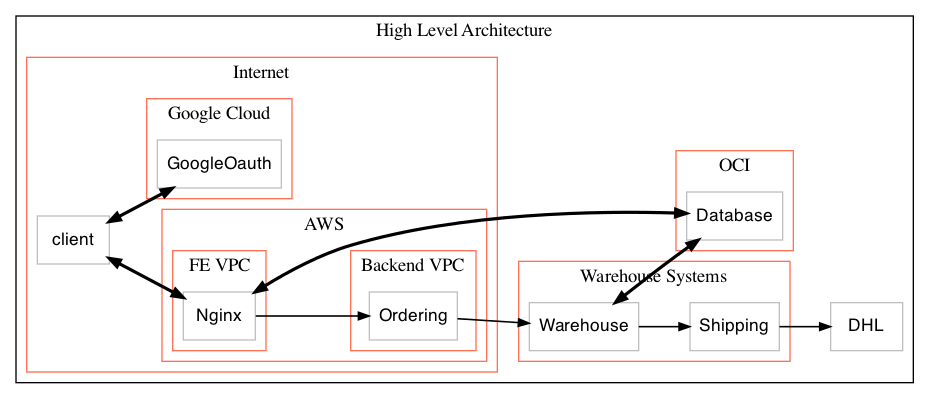
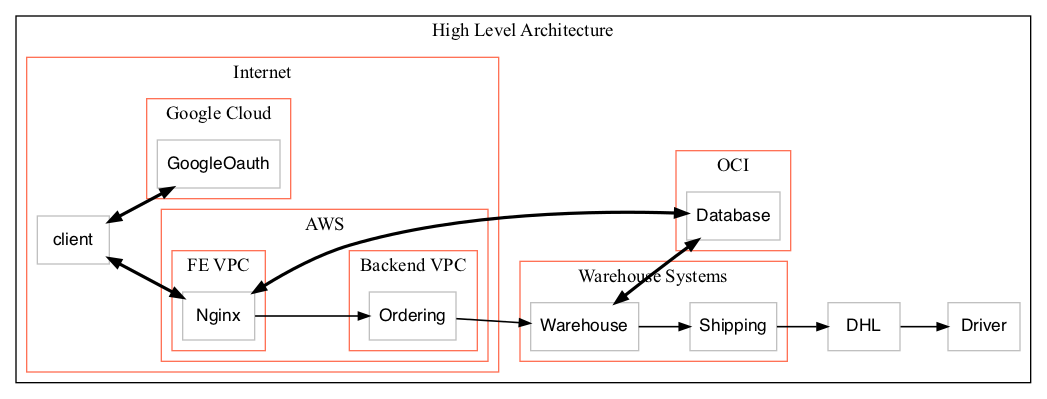
Added include function

diff --git a/src/ltm.py b/src/ltm.py
@@ -1,13 +1,15 @@
 grammar = """
     start: command+
 
-    command: describe   
+    command: describe
+           | include 
            | scene      
            | boundary
            | dataflow
-
            
     describe: "describe" SPACE WORD ":" SPACE ESCAPED_STRING
+
+    include: "include" SPACE WORD
 
     boundary: "boundary" SPACE ESCAPED_STRING ":" [ WORD+ | ESCAPED_STRING+ ]
 
@@ -28,7 +30,7 @@ grammar = """
     //
     LCASE_LETTER: "a".."z"
     UCASE_LETTER: "A".."Z"
-    DELIM_CHAR: ("/"|"-"|"_")
+    DELIM_CHAR: ("/"|"-"|"_"|".")
 
 
     LETTER: UCASE_LETTER | LCASE_LETTER | DELIM_CHAR | DIGIT
@@ -49,6 +51,8 @@ from deepdiff import DeepDiff
 
 from lark import Lark
 from lark.visitors import Visitor_Recursive
+
+import util
 
 parser = Lark(grammar)
 
@@ -76,6 +80,10 @@ class MyVisitor(Visitor_Recursive):
     def catcher(self, tree):
         """Visitor Function"""
         self._addActor(tree)
+
+    def include(self, tree):
+        """Visitor Function"""
+        pass
 
     def scene(self, tree):
         """Visitor Function"""
@@ -241,7 +249,17 @@ def test():
 
 
 def main():
-    parseTree = parser.parse(sys.stdin.read())
+    preparse = []
+    for s in sys.stdin.readlines():
+        if s.startswith("include"):
+            path = s.split(" ")[-1]
+            preparse.append(util.safeFileRead(path))
+        else:
+            preparse.append(s)
+    
+    preParsedString = "".join(preparse)
+
+    parseTree = parser.parse(preParsedString)
     MyVisitor().visit_topdown(parseTree)
     print(json.dumps(doc, indent=4, sort_keys=True), end="")
 

diff --git a/src/util.py b/src/util.py
@@ -6,6 +6,22 @@
 
 from typing import Union
 
+# Should we just rely on Posix DAC and not be too smart here?
+def safeFileRead(path: str, ext: str = ".ltm") ->str:
+    """Safely include other ltm files"""
+    # Files must end in .ltm
+    # Files must be local (no windering off into /etc/ ...)
+    #TODO: Think more about this, it'll do for now though.
+    path = path.strip()
+    if not path.endswith(ext):
+        print("Invalid include")
+        return ""
+
+    with open(path, 'r') as f:
+        return f.read()
+    
+
+
 def search(parent: dict, searchValue, path: list = None):
     """Search through nested dictionaries and lists looking for a value.
 

diff --git a/examples/report.md b/examples/report.md
@@ -5,6 +5,7 @@
 | --- | ---- |
 | DHL | External Shipping Company |
 | Database | Oracle Exadata database, holding most state of the overall application |
+| Driver | - |
 | GoogleOauth | Google Oauth IDP - **out of scope** |
 | Nginx | A web proxy used to manage inbound traffic, perform TLS termination |
 | Ordering | Order processing microservice |
@@ -49,5 +50,13 @@
 | 5 | Database | Warehouse | Customer address |
 | 6 | Warehouse | Shipping | Prepare invoice for shipping to address |
 | 7 | Shipping | DHL | Ship Order |
+
+
+## Order Received
+![Order Received](output/Order%20Received.png)
+
+| Id | From | To | Data |
+| --- | ---- | --- | ---- |
+| 1 | DHL | Driver | Collection Order |
 
 
